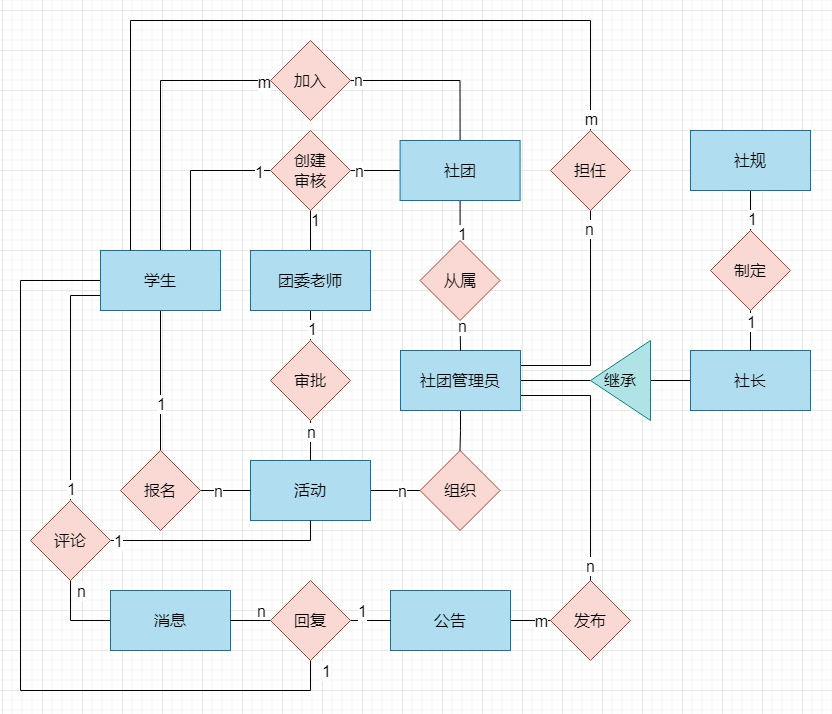
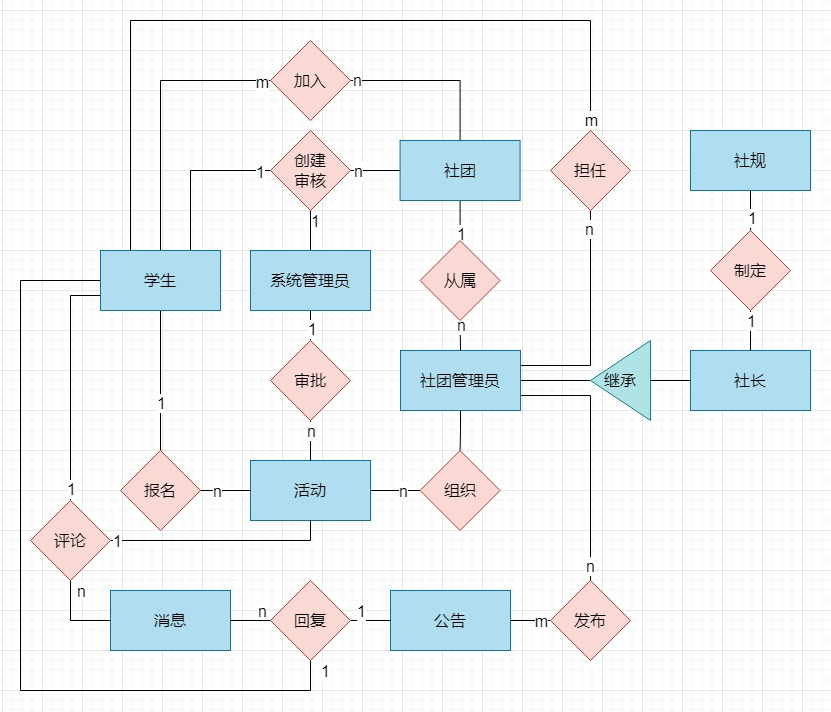
更改ER图，完成数据元素表初版

diff --git a/系统设计报告/ccy-ER图与数据元素表/数据元素表.md b/系统设计报告/ccy-ER图与数据元素表/数据元素表.md
@@ -1,0 +1,110 @@
+#### 1.学生表(Student)
+
+| 编号 | 名称       | 解释     | 类型        | 约束                |
+| ---- | ---------- | -------- | ----------- | ------------------- |
+|      | student_id | 学号     | varchar(11) | 主键                |
+|      | password   | 密码     | varchar(31) | 非空                |
+|      | name       | 姓名     | varchar(15) | 非空                |
+|      | sex        | 性别     | varchar(2)  | sex in ('男'，'女') |
+|      | grade      | 年级     | varchar(4)  |                     |
+|      | institute  | 学院     | varchar(15) |                     |
+|      | major      | 专业     | varchar(15) |                     |
+|      | phone      | 电话号码 | varchar(15) |                     |
+|      | email      | 邮箱     | varchar(31) |                     |
+|      | time       | 注册时间 | varchar(31) |                     |
+
+#### 2.系统管理员(SysAdmin)
+
+| 编号 | 名称     | 解释       | 类型        | 约束                    |
+| ---- | -------- | ---------- | ----------- | ----------------------- |
+|      | sad_id   | 管理员编号 | int         | 主键                    |
+|      | password | 管理员密码 | varchar(31) | 非空                    |
+|      | name     | 管理员姓名 | varchar(15) | 非空                    |
+|      | sex      | 性别       | varchar(2)  |                         |
+|      | phone    | 电话号码   | varchar(15) |                         |
+|      | email    | 邮箱       | varchar(31) |                         |
+|      | level    | 权限等级   | int         | 限制$0 \le level \le 2$ |
+
+#### 3.社长(President)
+
+| 编号 | 名称       | 解释     | 类型        | 约束 |
+| ---- | ---------- | -------- | ----------- | ---- |
+|      | pre_id     | 社长编号 | int         | 主键 |
+|      | student_id | 社长学号 | varchar(11) | 外键 |
+
+#### 4.社团(Club)
+
+| 编号 | 名称    | 解释     | 类型        | 约束 |
+| ---- | ------- | -------- | ----------- | ---- |
+|      | club_id | 社团编号 | int         | 主键 |
+|      | name    | 社团名字 | varchar(15) |      |
+|      | type    | 社团类型 | varchar(7)  |      |
+|      | time    | 注册时间 | varchar(15) |      |
+|      | pre_id  | 社长编号 | int         | 外键 |
+
+#### 5.社员管理员(ClubAdmin)
+
+| 编号 | 名称       | 解释                 | 类型        | 约束                    |
+| ---- | ---------- | -------------------- | ----------- | ----------------------- |
+|      | cad_id     | 社团管理员编号       | int         | 主键                    |
+|      | student_id | 管理员学号           | varchar(11) | 外键                    |
+|      | is_pre     | 是否是社长           | boolean     |                         |
+|      | pre_id     | 社长编号(如果是社长) | int         | 外键                    |
+|      | level      | 权限等级             | int         | 限制$0 \le level \le 2$ |
+
+#### 6.社规(Rule)
+
+| 编号 | 名称    | 解释         | 类型          | 约束 |
+| ---- | ------- | ------------ | ------------- | ---- |
+|      | rule_id | 社规编号     | int           | 主键 |
+|      | pre_id  | 发布社长编号 | int           | 外键 |
+|      | time    | 发布时间     | varchar(15)   |      |
+|      | name    | 规则名称     | varchar(31)   |      |
+|      | content | 规则内容     | varchar(1023) |      |
+
+#### 7.活动(Event)
+
+| 编号 | 名称         | 解释         | 类型          | 约束                     |
+| ---- | ------------ | ------------ | ------------- | ------------------------ |
+|      | event_id     | 活动编号     | int           | 主键                     |
+|      | club_id      | 活动社团编号 | int           | 外键                     |
+|      | student_id   | 负责人学号   | varchar(11)   | 外键                     |
+|      | launch_time  | 发起时间     | varchar(15)   |                          |
+|      | examine_time | 审批时间     | varchar(15)   |                          |
+|      | status       | 审批状态     | int           | 限制$0 \le status \le 2$ |
+|      | begin_time   | 开始时间     | varchar(15)   |                          |
+|      | end_time     | 结束时间     | varchar(15)   |                          |
+|      | location     | 活动地点     | varchar(31)   |                          |
+|      | intro        | 活动简介     | varchar(1023) |                          |
+
+#### 8.公告(Notice)
+
+| 编号 | 名称        | 解释       | 类型          | 约束 |
+| ---- | ----------- | ---------- | ------------- | ---- |
+|      | notice_id   | 公告编号   | int           | 主键 |
+|      | club_id     | 社团编号   | int           | 外键 |
+|      | student_id  | 发布者学号 | varchar(11)   | 外键 |
+|      | launch_time | 发布时间   | varchar(15)   |      |
+|      | name        | 公告名称   | varchar(15)   |      |
+|      | content     | 公告内容   | varchar(1023) |      |
+
+#### 9.消息(Message)
+
+| 编号 | 名称        | 解释         | 类型          | 约束 |
+| ---- | ----------- | ------------ | ------------- | ---- |
+|      | msg_id      | 消息编号     | int           | 主键 |
+|      | student_id  | 发布者学号   | varchar(11)   |      |
+|      | event_id    | 回复活动编号 | int           | 外键 |
+|      | notice_id   | 回复公告编号 | int           | 外键 |
+|      | remsg_id    | 回复消息编号 | int           | 外键 |
+|      | launch_time | 发布时间     | varchar(15)   |      |
+|      | content     | 消息内容     | varchar(1023) |      |
+
+
+
+
+
+
+
+
+
